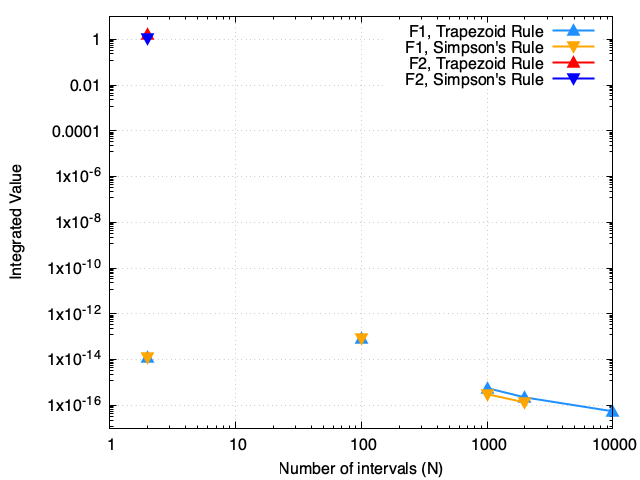
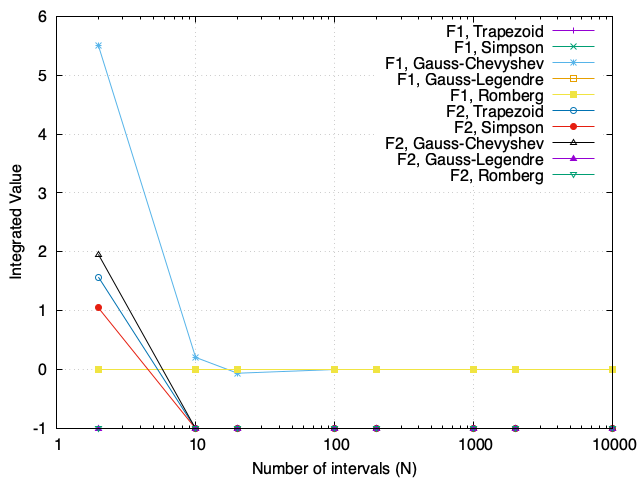
task2

diff --git a/Computational Astrophysics 1: Introduction/CA1_ex08/Task2/main.cpp b/Computational Astrophysics 1: Introduction/CA1_ex08/Task2/main.cpp
@@ -50,6 +50,13 @@ int main() {
         double calc_gauss_legendre = gauss_legendre(f2, a, b, N);
         double calc_romberg = romberg(f2, a, b, 10, 1e-8);
 
+        //mark as -1 when nan
+        if (isnan(calc_trapezoid)) calc_trapezoid = -1;
+        if (isnan(calc_simpson)) calc_simpson = -1;
+        if (isnan(calc_gauss_chebyshev)) calc_gauss_chebyshev = -1;
+        if (isnan(calc_gauss_legendre)) calc_gauss_legendre = -1;
+        if (isnan(calc_romberg)) calc_romberg = -1;
+        
         outfile2 << N << " " << calc_trapezoid << " " << calc_simpson << " " << calc_gauss_chebyshev << " " << calc_gauss_legendre << " " << calc_romberg << endl;
     }
     outfile2.close();
